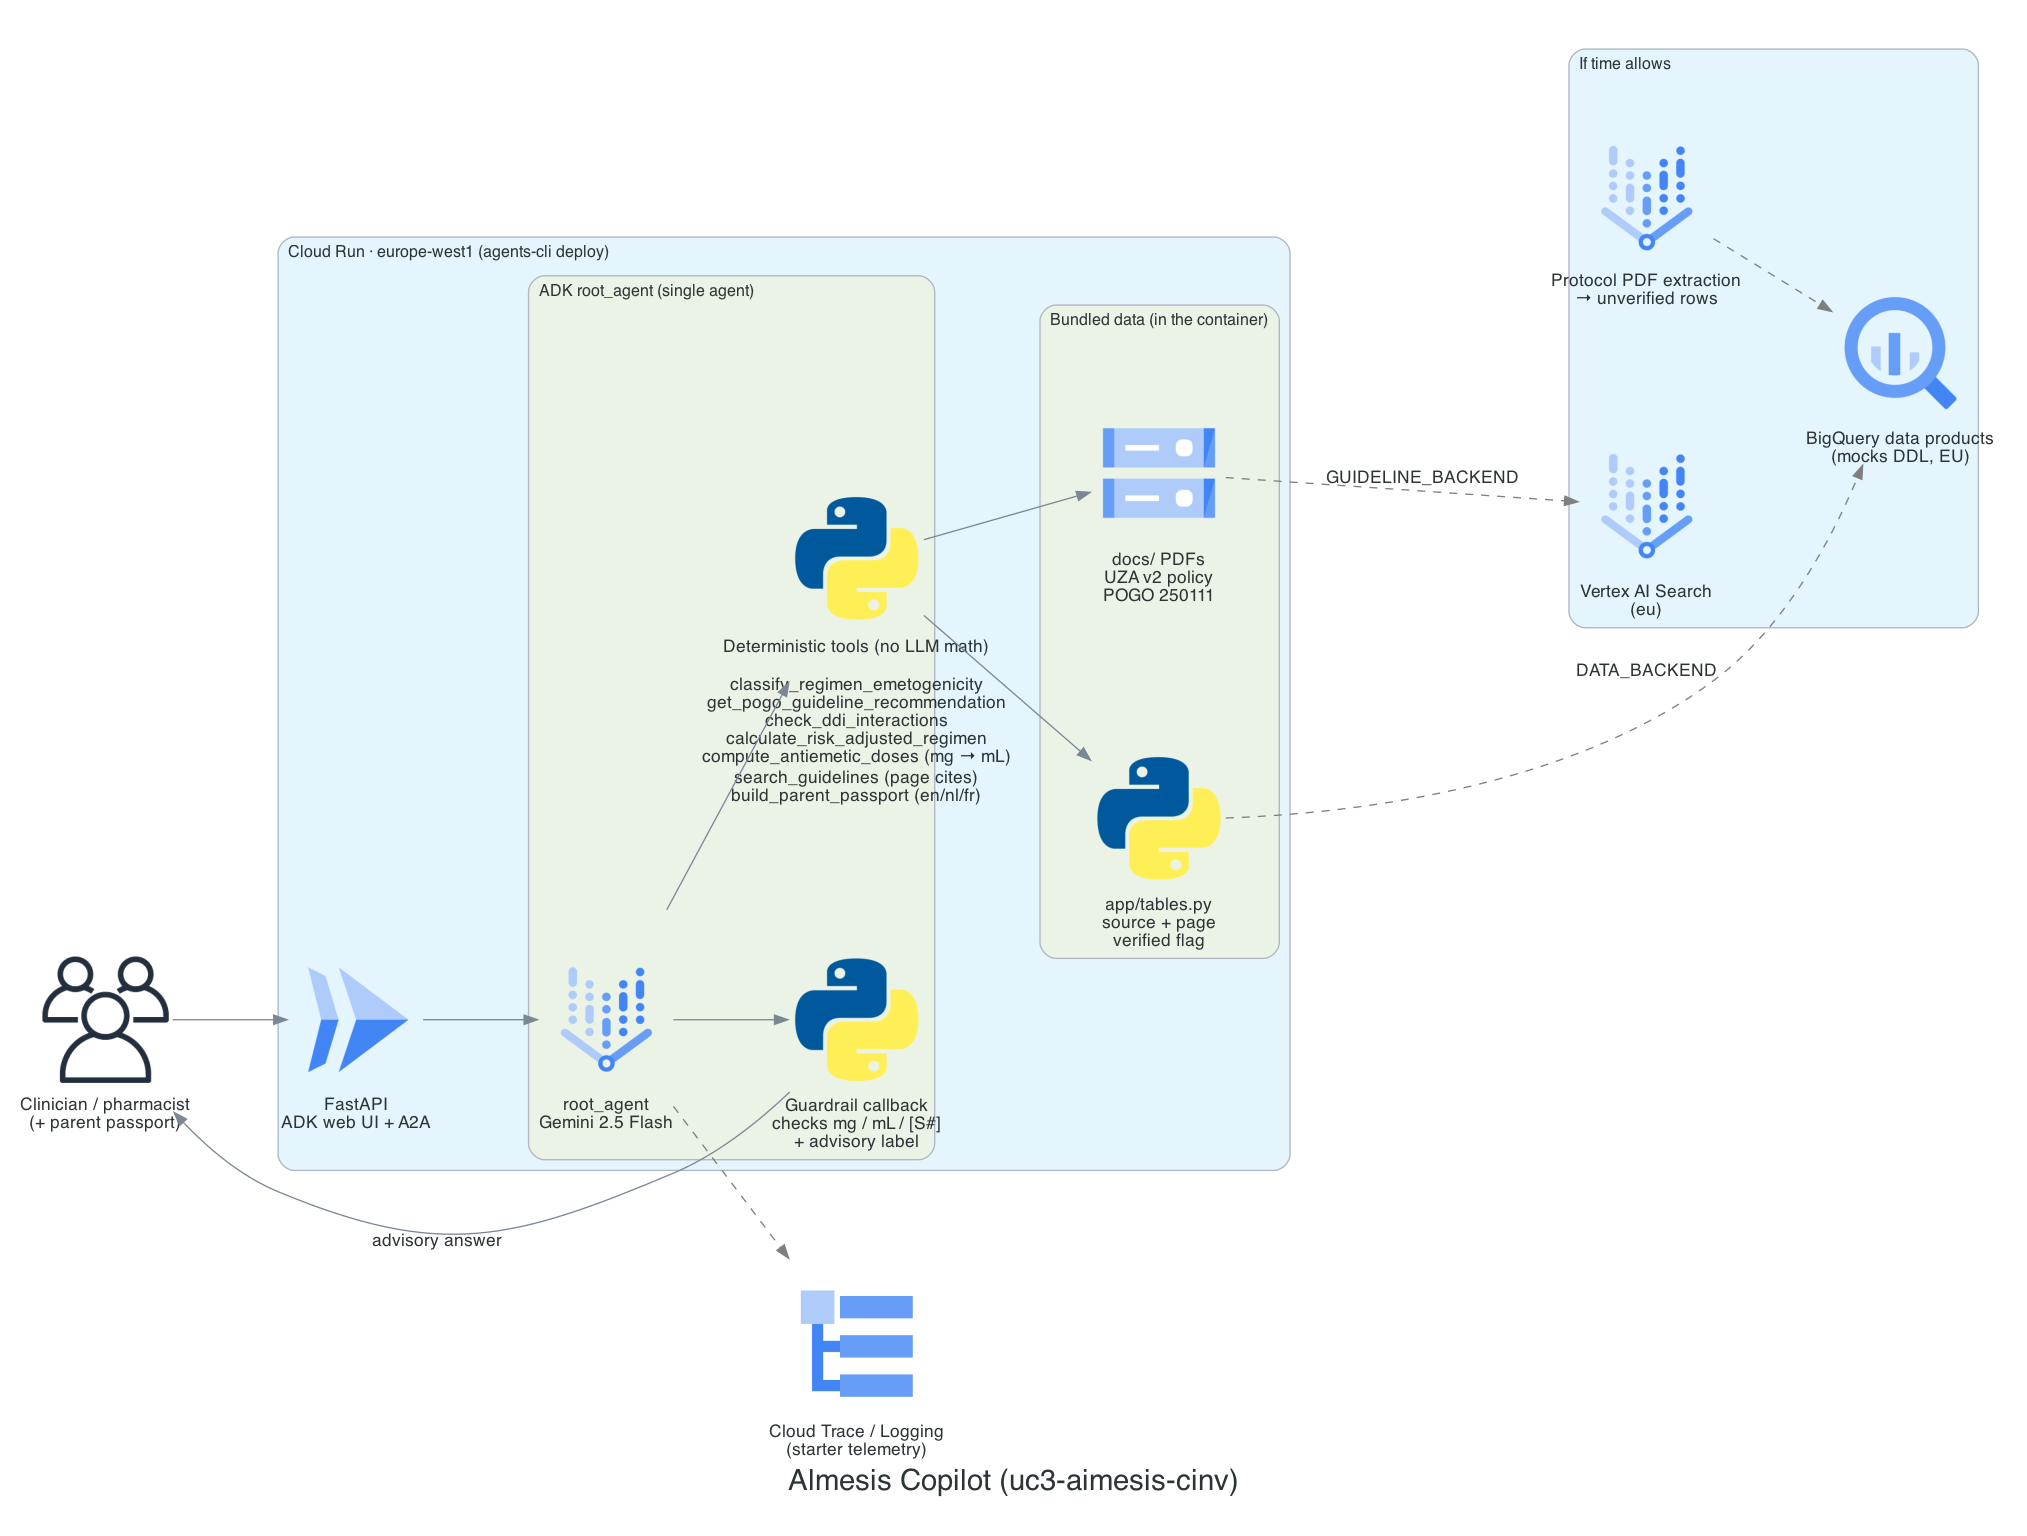
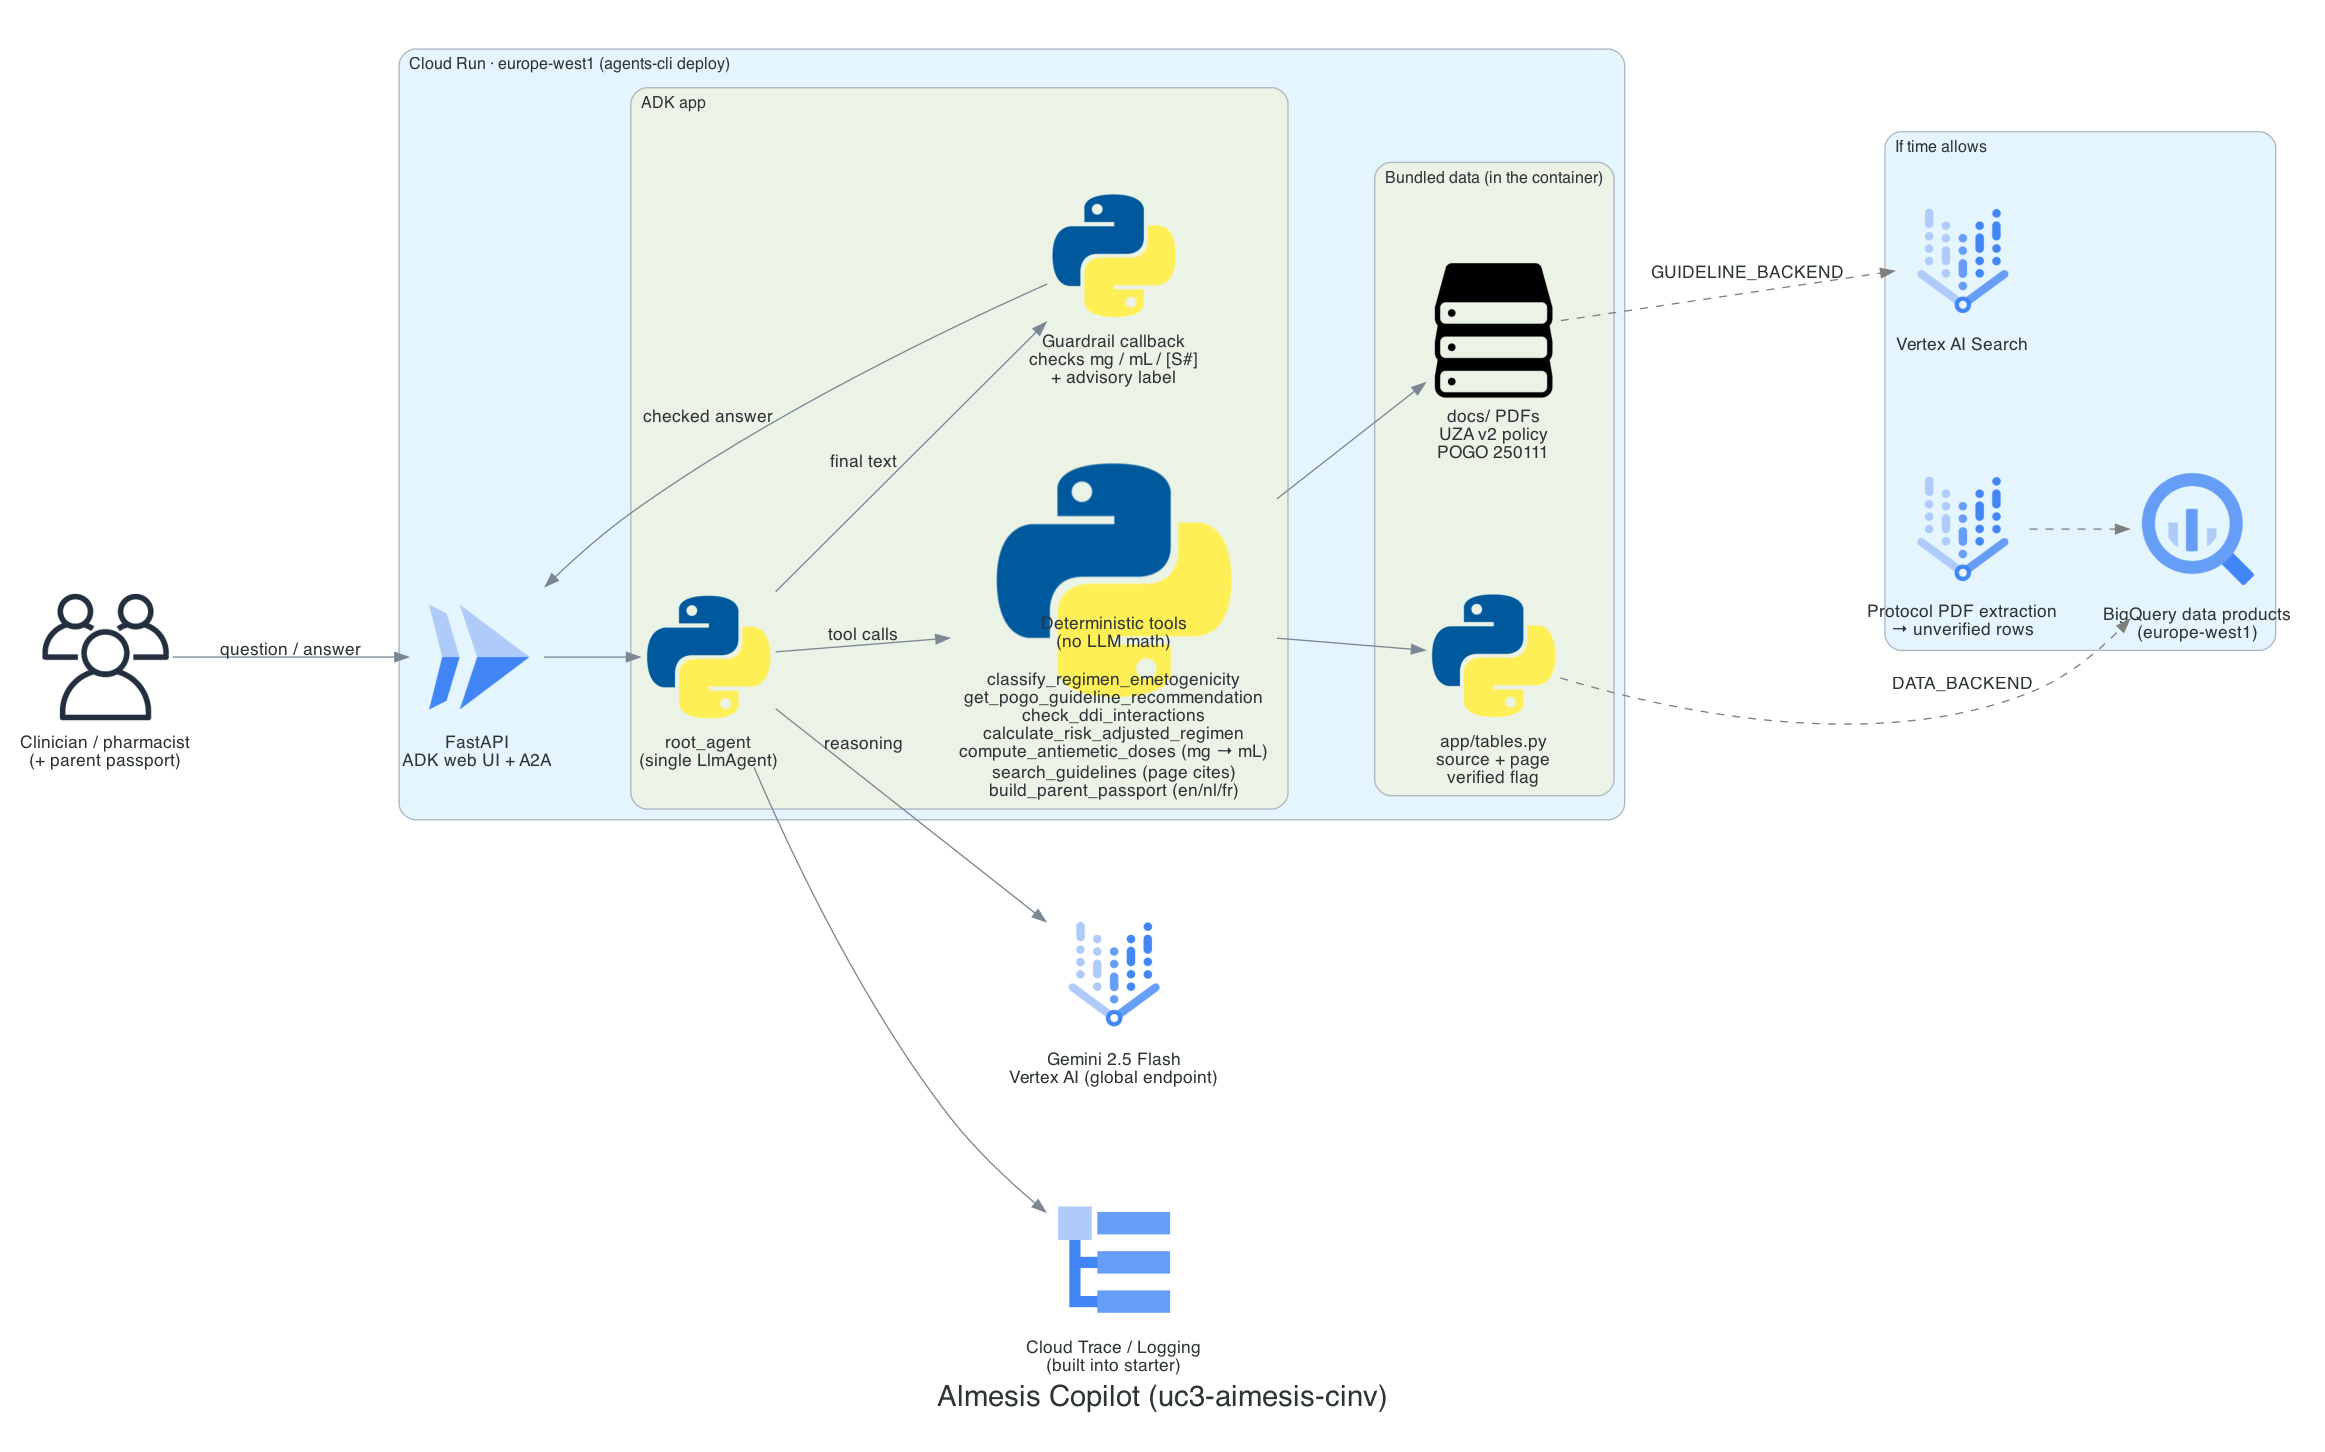
Update architecture diagram and improve code structure for clarity

diff --git a/media/architecture.py b/media/architecture.py
@@ -11,19 +11,21 @@ from diagrams.gcp.analytics import BigQuery
 from diagrams.gcp.compute import Run
 from diagrams.gcp.ml import VertexAI
 from diagrams.gcp.operations import Logging
-from diagrams.gcp.storage import GCS
+from diagrams.generic.storage import Storage
 from diagrams.onprem.client import Users
 from diagrams.programming.language import Python
 
 OUT = Path(__file__).with_name("almesis_copilot_architecture")
 OPTIONAL = {"style": "dashed", "color": "gray50"}
+# Tall node so the multi-line label sits inside the node instead of under arrows.
+TALL = {"height": "3.6", "width": "3.4", "imagepos": "tc", "labelloc": "b", "imagescale": "false"}
 
 with Diagram(
     "Almesis Copilot (uc3-aimesis-cinv)",
     filename=str(OUT),
     show=False,
     direction="LR",
-    graph_attr={"fontsize": "22", "pad": "0.4", "nodesep": "0.9", "ranksep": "1.2", "splines": "spline"},
+    graph_attr={"fontsize": "22", "pad": "0.4", "nodesep": "0.7", "ranksep": "1.0", "splines": "spline"},
     node_attr={"fontsize": "13"},
 ):
     clinician = Users("Clinician / pharmacist\n(+ parent passport)")
@@ -31,38 +33,42 @@ with Diagram(
     with Cluster("Cloud Run · europe-west1 (agents-cli deploy)"):
         ui = Run("FastAPI\nADK web UI + A2A")
 
-        with Cluster("ADK root_agent (single agent)"):
-            agent = VertexAI("root_agent\nGemini 2.5 Flash")
-            guard = Python("Guardrail callback\nchecks mg / mL / [S#]\n+ advisory label")
-
+        with Cluster("ADK app"):
+            agent = Python("root_agent\n(single LlmAgent)")
             tools = Python(
-                "Deterministic tools (no LLM math)\n\n"
+                "Deterministic tools\n(no LLM math)\n\n"
                 "classify_regimen_emetogenicity\n"
                 "get_pogo_guideline_recommendation\n"
                 "check_ddi_interactions\n"
                 "calculate_risk_adjusted_regimen\n"
                 "compute_antiemetic_doses (mg → mL)\n"
                 "search_guidelines (page cites)\n"
-                "build_parent_passport (en/nl/fr)"
+                "build_parent_passport (en/nl/fr)",
+                **TALL,
             )
+            guard = Python("Guardrail callback\nchecks mg / mL / [S#]\n+ advisory label")
 
         with Cluster("Bundled data (in the container)"):
             tables = Python("app/tables.py\nsource + page\nverified flag")
-            pdfs = GCS("docs/ PDFs\nUZA v2 policy\nPOGO 250111")
+            pdfs = Storage("docs/ PDFs\nUZA v2 policy\nPOGO 250111")
 
-    telemetry = Logging("Cloud Trace / Logging\n(starter telemetry)")
+    gemini = VertexAI("Gemini 2.5 Flash\nVertex AI (global endpoint)")
+    telemetry = Logging("Cloud Trace / Logging\n(built into starter)")
 
     with Cluster("If time allows"):
-        bq = BigQuery("BigQuery data products\n(mocks DDL, EU)")
-        vas = VertexAI("Vertex AI Search\n(eu)")
         extract = VertexAI("Protocol PDF extraction\n→ unverified rows")
+        bq = BigQuery("BigQuery data products\n(europe-west1)")
+        vas = VertexAI("Vertex AI Search")
 
-    clinician >> ui >> agent
-    agent >> tools
-    agent >> guard >> Edge(xlabel="advisory answer", constraint="false") >> clinician
+    clinician >> Edge(label="question / answer", dir="both") >> ui
+    ui >> Edge(dir="both") >> agent
+    agent >> Edge(label="reasoning", dir="both") >> gemini
+    agent >> Edge(label="tool calls", dir="both") >> tools
     tools >> tables
     tools >> pdfs
-    agent >> Edge(**OPTIONAL) >> telemetry
+    agent >> Edge(label="final text") >> guard
+    guard >> Edge(label="checked answer", constraint="false") >> ui
+    agent >> telemetry
     tables >> Edge(label="DATA_BACKEND", **OPTIONAL) >> bq
     pdfs >> Edge(label="GUIDELINE_BACKEND", **OPTIONAL) >> vas
     extract >> Edge(**OPTIONAL) >> bq
